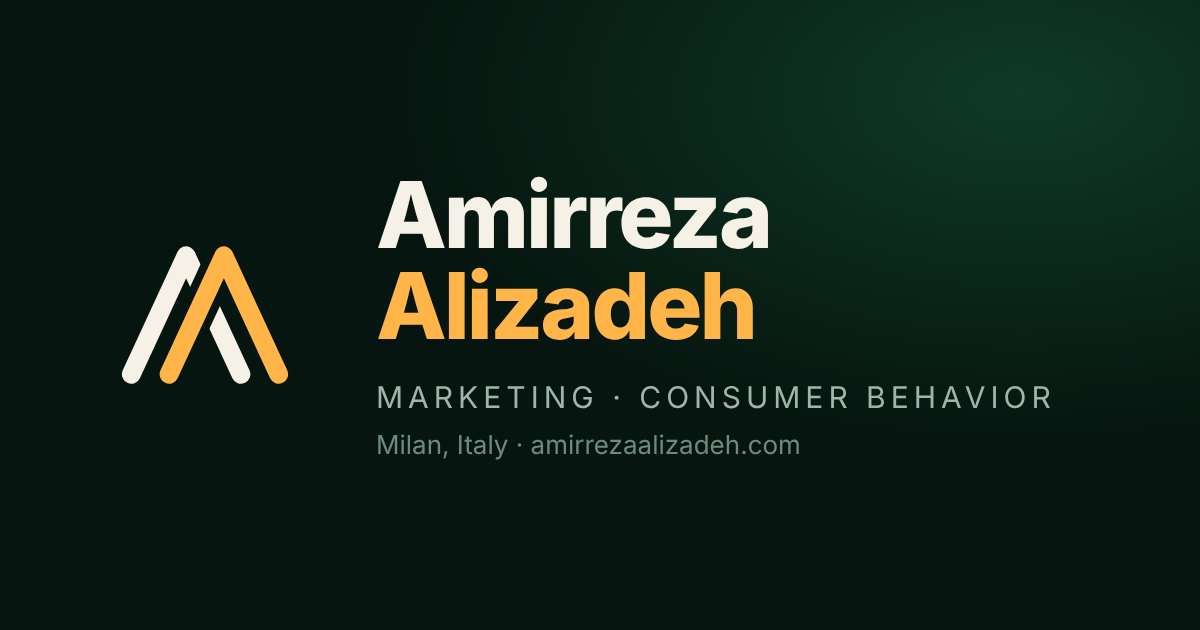
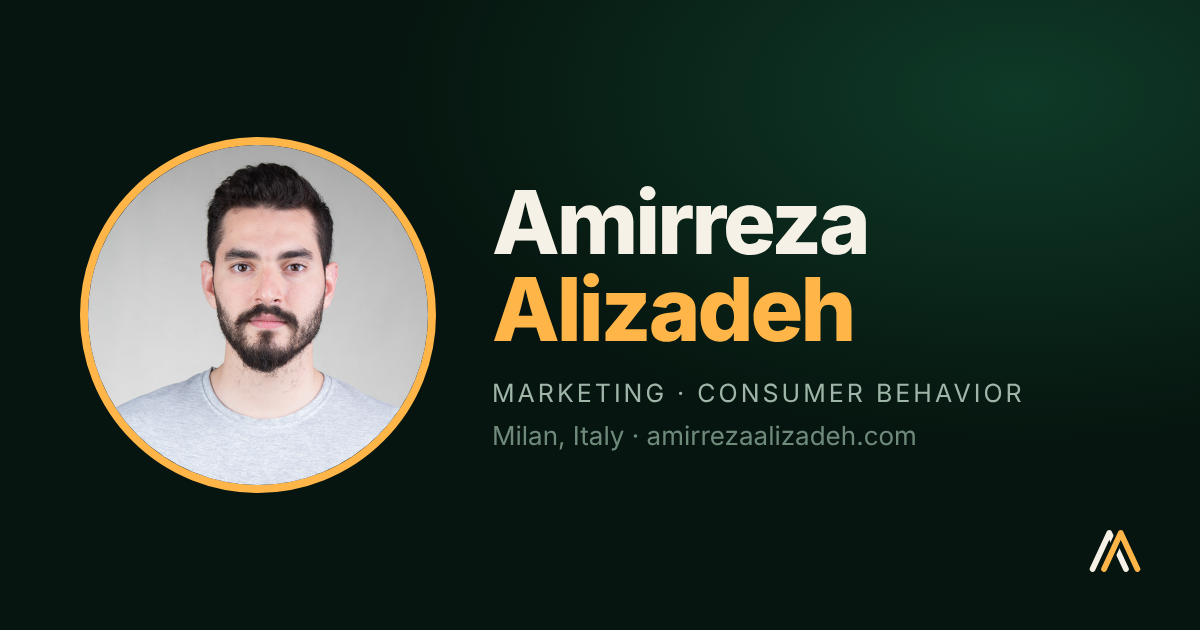
Use portrait in share image and Person structured data (not shown on page)
Claude-Session: https://claude.ai/code/session_01W8d63JyuUvdA673r2Ew2Nx

Changed region(s): [[0.0617, 0.2111, 0.8942, 0.7841], [0.8942, 0.8444, 0.9558, 0.9048]]

diff --git a/index.html b/index.html
@@ -19,7 +19,7 @@
 <meta property="og:image" content="https://amirrezaalizadeh.com/og-image.png">
 <meta property="og:image:width" content="1200">
 <meta property="og:image:height" content="630">
-<meta property="og:image:alt" content="Amirreza Alizadeh logo">
+<meta property="og:image:alt" content="Amirreza Alizadeh, Marketing and Consumer Behavior">
 <meta property="og:site_name" content="Amirreza Alizadeh">
 <meta property="og:locale" content="en_US">
 <meta property="og:locale:alternate" content="fa_IR">
@@ -33,7 +33,7 @@
 <meta name="twitter:title" content="Amirreza Alizadeh | Strategy, Marketing, Consumer Behavior">
 <meta name="twitter:description" content="MSc student in Marketing and Global Management at Milano-Bicocca. Strategy, marketing and consumer behavior.">
 <script type="application/ld+json">
-{"@context":"https://schema.org","@type":"ProfilePage","name":"Amirreza Alizadeh","url":"https://amirrezaalizadeh.com/","inLanguage":["en","fa","it","fr","ar"],"mainEntity":{"@type":"Person","name":"Amirreza Alizadeh","url":"https://amirrezaalizadeh.com/","givenName":"Amirreza","familyName":"Alizadeh","alternateName":["Amir Alizadeh","Amirreza Aliizadeh","امیررضا علیزاده","أميررضا عليزاده"],"description":"Strategy, marketing and consumer behavior. MSc student in Marketing and Global Management at Milano-Bicocca, with six years of work in sponsorship, sales and media in Iran.","jobTitle":"MSc student, Marketing and Global Management","email":"alizadeh.workspace@gmail.com","nationality":{"@type":"Country","name":"Iran"},"alumniOf":[{"@type":"CollegeOrUniversity","name":"Università degli Studi di Milano-Bicocca"},{"@type":"CollegeOrUniversity","name":"Azad University, Lahijan"}],"homeLocation":{"@type":"Place","name":"Milan, Italy"},"knowsLanguage":["fa","en","it"],"knowsAbout":["Strategy","Marketing","Consumer behavior","Sponsorship","Sales management","Public relations"],"sameAs":["https://orcid.org/0009-0006-1258-8958","https://doi.org/10.5281/zenodo.23249786","https://papers.ssrn.com/sol3/papers.cfm?abstract_id=7586378","https://scholar.google.com/citations?user=f7jNMfsAAAAJ","https://www.linkedin.com/in/amirreza-alizadeh","https://www.instagram.com/amirreza_aliizadeh","https://www.instagram.com/business_by_amir","https://www.instagram.com/business_by_amir_fa","https://www.youtube.com/@Business_by_Amir","https://www.facebook.com/amirreza.aliizadeh"]}}
+{"@context":"https://schema.org","@type":"ProfilePage","name":"Amirreza Alizadeh","url":"https://amirrezaalizadeh.com/","inLanguage":["en","fa","it","fr","ar"],"mainEntity":{"@type":"Person","name":"Amirreza Alizadeh","url":"https://amirrezaalizadeh.com/","image":"https://amirrezaalizadeh.com/amirreza-alizadeh.jpg","givenName":"Amirreza","familyName":"Alizadeh","alternateName":["Amir Alizadeh","Amirreza Aliizadeh","امیررضا علیزاده","أميررضا عليزاده"],"description":"Strategy, marketing and consumer behavior. MSc student in Marketing and Global Management at Milano-Bicocca, with six years of work in sponsorship, sales and media in Iran.","jobTitle":"MSc student, Marketing and Global Management","email":"alizadeh.workspace@gmail.com","nationality":{"@type":"Country","name":"Iran"},"alumniOf":[{"@type":"CollegeOrUniversity","name":"Università degli Studi di Milano-Bicocca"},{"@type":"CollegeOrUniversity","name":"Azad University, Lahijan"}],"homeLocation":{"@type":"Place","name":"Milan, Italy"},"knowsLanguage":["fa","en","it"],"knowsAbout":["Strategy","Marketing","Consumer behavior","Sponsorship","Sales management","Public relations"],"sameAs":["https://orcid.org/0009-0006-1258-8958","https://doi.org/10.5281/zenodo.23249786","https://papers.ssrn.com/sol3/papers.cfm?abstract_id=7586378","https://scholar.google.com/citations?user=f7jNMfsAAAAJ","https://www.linkedin.com/in/amirreza-alizadeh","https://www.instagram.com/amirreza_aliizadeh","https://www.instagram.com/business_by_amir","https://www.instagram.com/business_by_amir_fa","https://www.youtube.com/@Business_by_Amir","https://www.facebook.com/amirreza.aliizadeh"]}}
 </script>
 <link rel="stylesheet" href="https://fonts.googleapis.com/css2?family=Bricolage+Grotesque:opsz,wght@12..96,400;600;800&family=IBM+Plex+Mono:wght@400;500&family=Instrument+Sans:wght@400;500;600&family=Noto+Sans+Arabic:wght@400;500;700;800&family=Vazirmatn:wght@400;500;700;800&display=swap">
 <style>
